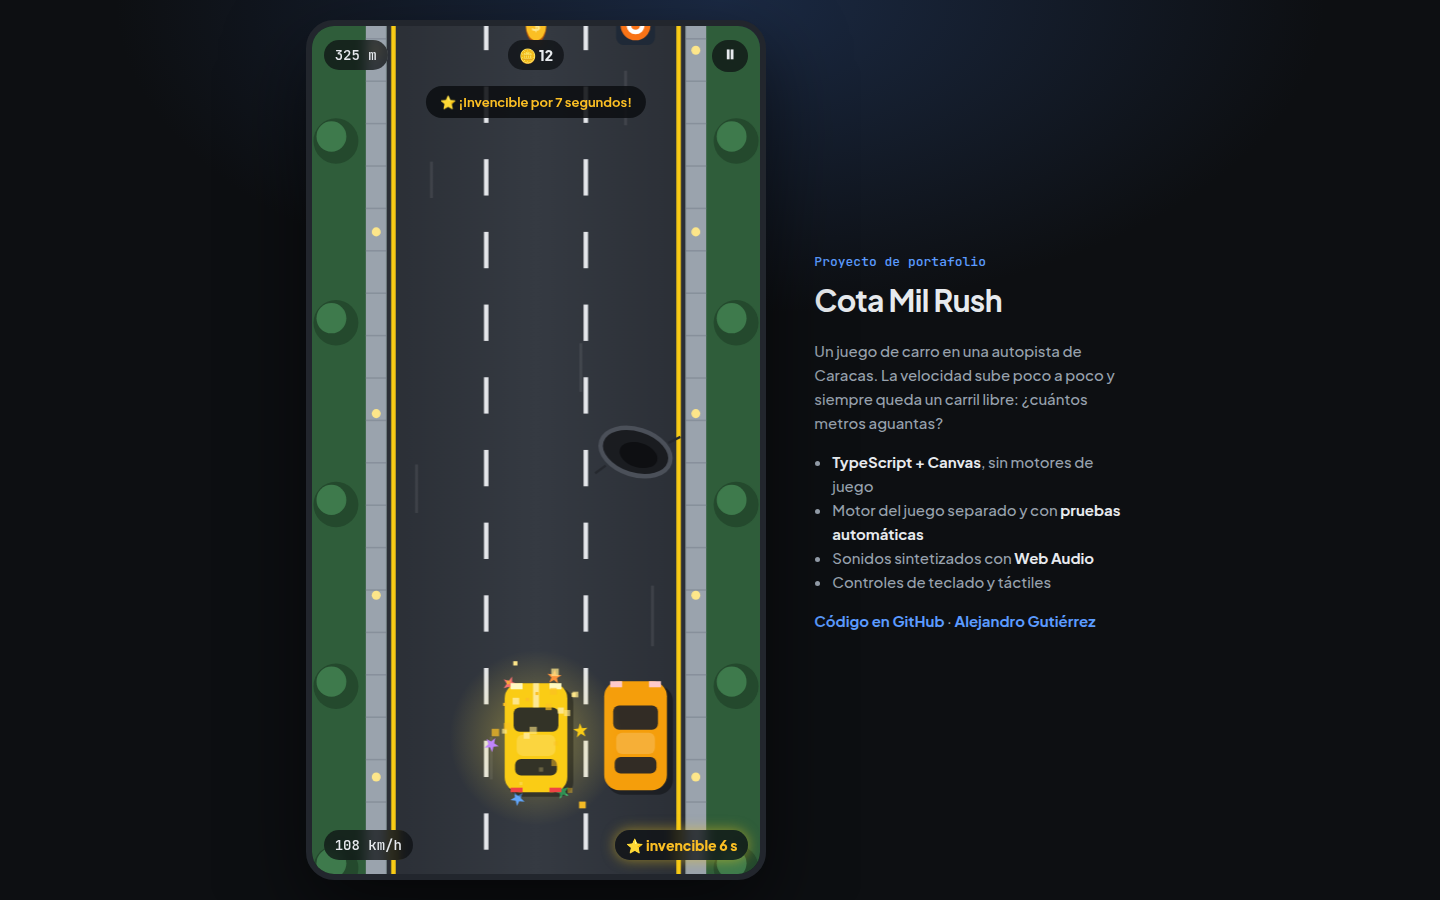
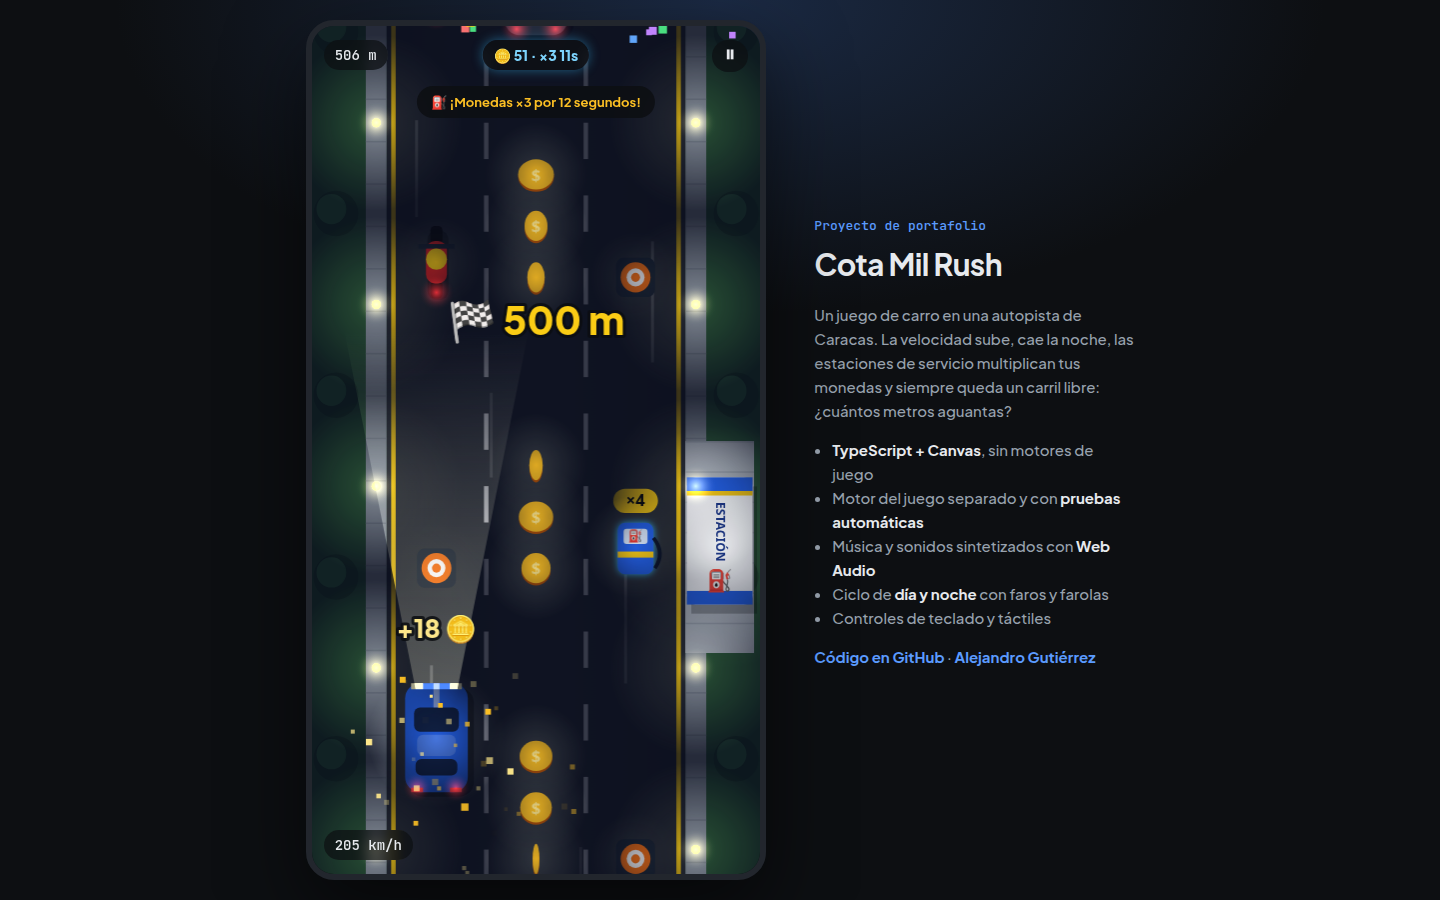
Capturas nuevas (noche y estación) y portadas del juego

Changed region(s): [[0.2188, 0.0311, 0.5312, 0.9956], [0.5625, 0.2489, 0.7812, 0.7467]]

diff --git a/promo/portada-movil.html b/promo/portada-movil.html
@@ -1,0 +1,133 @@
+<!doctype html>
+<html lang="es">
+<head>
+  <meta charset="utf-8">
+  <title>Portada vertical · Cota Mil Rush</title>
+  <link href="https://fonts.googleapis.com/css2?family=JetBrains+Mono:wght@500;700&family=Plus+Jakarta+Sans:wght@600;800&display=swap" rel="stylesheet">
+  <style>
+    html, body { margin: 0; background: #000; }
+    /* Vertical 9:16 (celular, historias, capturas de Play Store): 540 × 960, se exporta al doble */
+    .cover {
+      position: relative;
+      width: 540px;
+      height: 960px;
+      overflow: hidden;
+      font-family: "Plus Jakarta Sans", system-ui, sans-serif;
+      background: #0b0f17;
+      color: #fff;
+      text-align: center;
+    }
+    canvas { position: absolute; inset: 0; }
+    .shade-top {
+      position: absolute; left: 0; right: 0; top: 0; height: 470px;
+      background:
+        radial-gradient(80% 60% at 50% 10%, rgba(29,59,110,.95) 0%, transparent 70%),
+        linear-gradient(180deg, rgba(9,12,19,1) 0%, rgba(9,12,19,.96) 55%, rgba(9,12,19,0) 100%);
+    }
+    .shade-bottom {
+      position: absolute; left: 0; right: 0; bottom: 0; height: 200px;
+      background: linear-gradient(0deg, rgba(9,12,19,.95) 0%, rgba(9,12,19,0) 100%);
+    }
+    .text { position: absolute; left: 0; right: 0; top: 64px; padding: 0 36px; }
+    .eyebrow {
+      display: inline-flex; gap: 8px; align-items: center;
+      margin: 0 0 18px; padding: 7px 14px; border-radius: 999px;
+      background: rgba(91,155,255,.16); color: #9cc2ff;
+      font: 700 14px "JetBrains Mono", monospace; letter-spacing: .06em;
+    }
+    h1 { margin: 0; font-size: 96px; font-weight: 800; line-height: .9; letter-spacing: -.04em; }
+    h1 span {
+      display: block; width: max-content; margin: 0 auto;
+      background: linear-gradient(90deg, #5b9bff 0%, #82b3ff 50%, #facc15 100%);
+      -webkit-background-clip: text; background-clip: text; color: transparent;
+    }
+    .tag { margin: 20px 0 0; font-size: 21px; line-height: 1.35; color: #c9d1dc; font-weight: 600; }
+    .tag b { color: #facc15; }
+    .bottom { position: absolute; left: 0; right: 0; bottom: 56px; }
+    .cta {
+      display: inline-flex; align-items: center; gap: 10px;
+      padding: 16px 34px; border-radius: 16px;
+      background: #5b9bff; color: #0b0d10; font-weight: 800; font-size: 24px;
+      box-shadow: 0 12px 34px rgba(91,155,255,.45);
+    }
+    .url { margin: 14px 0 0; color: #98a2ae; font: 500 15px "JetBrains Mono", monospace; }
+  </style>
+</head>
+<body>
+  <div class="cover">
+    <canvas id="c"></canvas>
+    <div class="shade-top"></div>
+    <div class="shade-bottom"></div>
+    <div class="text">
+      <p class="eyebrow">🚗 AUTOPISTA DE CARACAS</p>
+      <h1>COTA MIL<span>RUSH</span></h1>
+      <p class="tag">Esquiva huecos y motorizados.<br>¡Agarra la <b>⭐ estrella</b> y vuélvete invencible!</p>
+    </div>
+    <div class="bottom">
+      <span class="cta">▶ Juega gratis</span>
+      <p class="url">alezzz18.github.io/cota-mil-rush</p>
+    </div>
+  </div>
+  <script type="module">
+    import * as s from "/src/render/sprites.ts";
+    const W = 540, H = 960;
+    const canvas = document.getElementById("c");
+    const dpr = window.devicePixelRatio || 1;
+    canvas.width = W * dpr; canvas.height = H * dpr;
+    canvas.style.width = W + "px"; canvas.style.height = H + "px";
+    const ctx = canvas.getContext("2d");
+    ctx.scale(dpr, dpr);
+
+    const ROAD = 200, L = ROAD / 3, lane = (i) => L * i + L / 2;
+    ctx.translate(W / 2, 600);
+    ctx.rotate(0.12);
+    ctx.scale(1.6, 1.6);
+    ctx.translate(-ROAD / 2, -250);
+
+    const top = -400, bottom = 900;
+    ctx.fillStyle = "#2f5d3a"; ctx.fillRect(-400, top, ROAD + 800, bottom - top);
+    ctx.fillStyle = "#9aa3ad"; ctx.fillRect(-14, top, 14, bottom - top); ctx.fillRect(ROAD, top, 14, bottom - top);
+    ctx.fillStyle = "#87909b";
+    for (let y = top; y < bottom; y += 28) { ctx.fillRect(-14, y, 14, 1); ctx.fillRect(ROAD, y, 14, 1); }
+    for (let y = top; y < bottom; y += 120) {
+      for (const x of [-36, ROAD + 36]) {
+        ctx.fillStyle = "#24492d"; ctx.beginPath(); ctx.arc(x, y + (x > 0 ? 40 : 0), 17, 0, Math.PI * 2); ctx.fill();
+        ctx.fillStyle = "#3e7a4c"; ctx.beginPath(); ctx.arc(x - 3, y - 3 + (x > 0 ? 40 : 0), 11, 0, Math.PI * 2); ctx.fill();
+      }
+      ctx.fillStyle = "#fde68a";
+      for (const x of [-7, ROAD + 7]) { ctx.beginPath(); ctx.arc(x, y + 60, 3, 0, Math.PI * 2); ctx.fill(); }
+    }
+    const g = ctx.createLinearGradient(0, 0, ROAD, 0);
+    g.addColorStop(0, "#2b2f36"); g.addColorStop(0.5, "#353a42"); g.addColorStop(1, "#2b2f36");
+    ctx.fillStyle = g; ctx.fillRect(0, top, ROAD, bottom - top);
+    ctx.fillStyle = "#facc15"; ctx.fillRect(3, top, 3, bottom - top); ctx.fillRect(ROAD - 6, top, 3, bottom - top);
+    ctx.fillStyle = "#e5e7eb";
+    for (const i of [1, 2]) for (let y = top; y < bottom; y += 48) ctx.fillRect(L * i - 1.5, y, 3, 24);
+
+    ctx.strokeStyle = "rgba(255,255,255,.16)"; ctx.lineWidth = 2;
+    for (const [x, y, l] of [[20, 150, 60], [180, 110, 70], [150, 260, 55], [40, 390, 45], [190, 470, 60]]) {
+      ctx.beginPath(); ctx.moveTo(x, y); ctx.lineTo(x, y + l); ctx.stroke();
+    }
+
+    // Tráfico y premios: entre el texto de arriba y el botón de abajo
+    for (const [y, spin] of [[105, 1], [140, 2.2], [175, 0.4]]) s.coin(ctx, lane(2), y, spin);
+    ctx.save(); ctx.translate(lane(0), 160); ctx.scale(1.5, 1.5); s.star(ctx, 0, 0, 0.2); ctx.restore();
+    s.car(ctx, lane(2), 250, "#f59e0b");
+    s.pothole(ctx, lane(0), 300);
+    s.moto(ctx, lane(0), 390);
+
+    const px = lane(1), py = 265;
+    s.starAura(ctx, px, py, 0.35, 7);
+    s.car(ctx, px, py, "#facc15", true);
+    const colors = ["#f97316", "#fbbf24", "#f472b6", "#60a5fa", "#4ade80", "#ffffff"];
+    let seed = 7; const rnd = () => ((seed = (seed * 16807) % 2147483647) / 2147483647);
+    for (let i = 0; i < 40; i++) {
+      const a = -Math.PI / 2 + (rnd() - 0.5) * 2.4, d = 10 + rnd() * 42, r = 1.4 + rnd() * 2.6;
+      ctx.fillStyle = colors[i % colors.length];
+      ctx.globalAlpha = 0.6 + rnd() * 0.4;
+      ctx.fillRect(px + Math.cos(a) * d - r, py - 42 + Math.sin(a) * d * 0.7 - r, r * 2, r * 2);
+    }
+    ctx.globalAlpha = 1;
+  </script>
+</body>
+</html>

diff --git a/promo/portada.html b/promo/portada.html
@@ -1,0 +1,125 @@
+<!doctype html>
+<html lang="es">
+<head>
+  <meta charset="utf-8">
+  <title>Portada · Cota Mil Rush</title>
+  <link href="https://fonts.googleapis.com/css2?family=JetBrains+Mono:wght@500;700&family=Plus+Jakarta+Sans:wght@600;800&display=swap" rel="stylesheet">
+  <style>
+    html, body { margin: 0; background: #000; }
+    /* Gráfico de funciones de Play Store: 1024 × 500 */
+    .cover {
+      position: relative;
+      width: 1024px;
+      height: 500px;
+      overflow: hidden;
+      font-family: "Plus Jakarta Sans", system-ui, sans-serif;
+      background: radial-gradient(70% 90% at 15% 20%, #1d3b6e 0%, transparent 60%), #0b0f17;
+    }
+    canvas { position: absolute; inset: 0; }
+    .shade {
+      position: absolute; inset: 0;
+      background: linear-gradient(90deg, rgba(9,12,19,.97) 0%, rgba(9,12,19,.9) 34%, rgba(9,12,19,.0) 56%);
+    }
+    .text { position: absolute; left: 56px; top: 50%; transform: translateY(-50%); width: 430px; color: #fff; }
+    .eyebrow {
+      display: inline-flex; gap: 8px; align-items: center;
+      margin: 0 0 14px; padding: 6px 12px; border-radius: 999px;
+      background: rgba(91,155,255,.16); color: #9cc2ff;
+      font: 700 13px "JetBrains Mono", monospace; letter-spacing: .06em;
+    }
+    h1 { margin: 0; font-size: 92px; font-weight: 800; line-height: .9; letter-spacing: -.04em; }
+    h1 span {
+      display: block;
+      background: linear-gradient(90deg, #5b9bff 0%, #82b3ff 50%, #facc15 100%);
+      width: max-content;
+      -webkit-background-clip: text; background-clip: text; color: transparent;
+    }
+    .tag { margin: 18px 0 22px; font-size: 20px; line-height: 1.35; color: #c9d1dc; font-weight: 600; }
+    .tag b { color: #facc15; }
+    .cta {
+      display: inline-flex; align-items: center; gap: 10px;
+      padding: 12px 22px; border-radius: 14px;
+      background: #5b9bff; color: #0b0d10; font-weight: 800; font-size: 18px;
+      box-shadow: 0 10px 30px rgba(91,155,255,.4);
+    }
+  </style>
+</head>
+<body>
+  <div class="cover" id="cover">
+    <canvas id="c" width="1024" height="500"></canvas>
+    <div class="shade"></div>
+    <div class="text">
+      <p class="eyebrow">🚗 AUTOPISTA DE CARACAS</p>
+      <h1>COTA MIL<span>RUSH</span></h1>
+      <p class="tag">Esquiva huecos y motorizados.<br>¡Agarra la <b>⭐ estrella</b> y vuélvete invencible!</p>
+      <span class="cta">▶ Juega gratis</span>
+    </div>
+  </div>
+  <script type="module">
+    import * as s from "/src/render/sprites.ts";
+    const canvas = document.getElementById("c");
+    const dpr = window.devicePixelRatio || 1;
+    canvas.width = 1024 * dpr; canvas.height = 500 * dpr;
+    canvas.style.width = "1024px"; canvas.style.height = "500px";
+    const ctx = canvas.getContext("2d");
+    ctx.scale(dpr, dpr);
+
+    // Escena en unidades del juego: vía de 3 carriles (ancho 200) muy larga
+    const ROAD = 200, L = ROAD / 3, lane = (i) => L * i + L / 2;
+    ctx.translate(745, 250);
+    ctx.rotate(0.2);
+    ctx.scale(1.3, 1.3);
+    ctx.translate(-ROAD / 2, -250);
+
+    const top = -400, bottom = 900;
+    ctx.fillStyle = "#2f5d3a"; ctx.fillRect(-400, top, ROAD + 800, bottom - top);
+    ctx.fillStyle = "#9aa3ad"; ctx.fillRect(-14, top, 14, bottom - top); ctx.fillRect(ROAD, top, 14, bottom - top);
+    ctx.fillStyle = "#87909b";
+    for (let y = top; y < bottom; y += 28) { ctx.fillRect(-14, y, 14, 1); ctx.fillRect(ROAD, y, 14, 1); }
+    for (let y = top; y < bottom; y += 120) {
+      for (const x of [-36, -90, ROAD + 36, ROAD + 90]) {
+        ctx.fillStyle = "#24492d"; ctx.beginPath(); ctx.arc(x, y + (x > 0 ? 40 : 0), 17, 0, Math.PI * 2); ctx.fill();
+        ctx.fillStyle = "#3e7a4c"; ctx.beginPath(); ctx.arc(x - 3, y - 3 + (x > 0 ? 40 : 0), 11, 0, Math.PI * 2); ctx.fill();
+      }
+      ctx.fillStyle = "#fde68a";
+      for (const x of [-7, ROAD + 7]) { ctx.beginPath(); ctx.arc(x, y + 60, 3, 0, Math.PI * 2); ctx.fill(); }
+    }
+    const g = ctx.createLinearGradient(0, 0, ROAD, 0);
+    g.addColorStop(0, "#2b2f36"); g.addColorStop(0.5, "#353a42"); g.addColorStop(1, "#2b2f36");
+    ctx.fillStyle = g; ctx.fillRect(0, top, ROAD, bottom - top);
+    ctx.fillStyle = "#facc15"; ctx.fillRect(3, top, 3, bottom - top); ctx.fillRect(ROAD - 6, top, 3, bottom - top);
+    ctx.fillStyle = "#e5e7eb";
+    for (const i of [1, 2]) for (let y = top; y < bottom; y += 48) ctx.fillRect(L * i - 1.5, y, 3, 24);
+
+    // Líneas de velocidad
+    ctx.strokeStyle = "rgba(255,255,255,.16)"; ctx.lineWidth = 2;
+    for (const [x, y, l] of [[20, 80, 60], [180, 30, 70], [95, -60, 50], [150, 210, 55], [40, 380, 45], [190, 470, 60], [120, 520, 40]]) {
+      ctx.beginPath(); ctx.moveTo(x, y); ctx.lineTo(x, y + l); ctx.stroke();
+    }
+
+    // Tráfico y premios
+    s.car(ctx, lane(0), 30, "#a855f7");
+    for (const [y, spin] of [[70, 1], [110, 2.2], [150, 0.4]]) s.coin(ctx, lane(2), y, spin);
+    ctx.save(); ctx.translate(lane(0), 170); ctx.scale(1.5, 1.5); s.star(ctx, 0, 0, 0.2); ctx.restore();
+    s.car(ctx, lane(2), 255, "#f59e0b");
+    s.pothole(ctx, lane(0), 300);
+    s.moto(ctx, lane(0), 440);
+    s.pothole(ctx, lane(2), 420);
+
+    // Carro invencible rompiendo un cono justo delante
+    const px = lane(1), py = 360;
+    s.starAura(ctx, px, py, 0.35, 7);
+    s.car(ctx, px, py, "#facc15", true);
+    const colors = ["#f97316", "#fbbf24", "#f472b6", "#60a5fa", "#4ade80", "#ffffff"];
+    let seed = 7; const rnd = () => ((seed = (seed * 16807) % 2147483647) / 2147483647);
+    for (let i = 0; i < 40; i++) {
+      const a = -Math.PI / 2 + (rnd() - 0.5) * 2.4, d = 10 + rnd() * 42, r = 1.4 + rnd() * 2.6;
+      ctx.fillStyle = colors[i % colors.length];
+      ctx.globalAlpha = 0.6 + rnd() * 0.4;
+      ctx.fillRect(px + Math.cos(a) * d - r, py - 42 + Math.sin(a) * d * 0.7 - r, r * 2, r * 2);
+    }
+    ctx.globalAlpha = 1;
+    document.fonts.ready.then(() => document.body.dataset.ready = "1");
+  </script>
+</body>
+</html>

diff --git a/README.md b/README.md
@@ -6,9 +6,11 @@ Juego de carro en una autopista de Caracas: esquiva **huecos, motorizados, conos
 
 🎮 **Jugar:** https://alezzz18.github.io/cota-mil-rush/
 
-| Menú | Partida | Fin de partida |
-|---|---|---|
-| ![Menú](docs/menu.png) | ![Partida](docs/partida.png) | ![Fin de partida](docs/fin.png) |
+| Menú | De día: estación de servicio | De noche: faros y combo | Fin de partida |
+|---|---|---|---|
+| ![Menú](docs/menu.png) | ![Estación de servicio](docs/estacion.png) | ![Partida de noche](docs/partida.png) | ![Fin de partida](docs/fin.png) |
+
+<p align="center"><img src="promo/portada-1024x500.png" alt="Portada de Cota Mil Rush" width="640"></p>
 
 ## 🕹 Cómo se juega
 
@@ -33,7 +35,7 @@ Juego de carro en una autopista de Caracas: esquiva **huecos, motorizados, conos
 - **Motor del juego separado** ([`src/game/engine.ts`](src/game/engine.ts)): estado y reglas sin DOM ni dibujo, con aleatoriedad reproducible por semilla.
 - **Nunca es imposible:** cada fila deja un carril libre al que se puede llegar desde *cualquier* carril libre de la fila anterior, y los vehículos lentos no bloquean el paso.
 - **18 pruebas (Vitest)**, incluida una en la que un conductor automático juega **40 partidas de 2 minutos** sin chocar: si él puede, una persona también.
-- **Música de fondo original generada en vivo** con Web Audio: un secuenciador de batería, bajo, arpegio y melodía. Acelera con el carro, sube de tono con la estrella y se oscurece de noche.
+- **Música de fondo original, "Cota Mil Nights"**, estilo synthwave y generada en vivo con Web Audio: batería ochentera, bajo de sierra, acordes que respiran con el bombo (*sidechain*), arpegio con eco, melodía con vibrato y reverberación. Acelera con el carro, sube de tono con la estrella y se oscurece de noche.
 - **Noche con luces reales:** una capa de oscuridad a la que se le "recortan" los faros y las farolas (`destination-out`), más brillos aditivos encima.
 - **Sonidos sintetizados** (monedas, estrella, estación, por un pelo, choque, récord), vibración en el celular, partículas, sacudida al chocar y pausa automática al cambiar de pestaña.
 - Bucle a 60 fps con `requestAnimationFrame` y paso de tiempo limitado.
@@ -45,10 +47,14 @@ src/
 ├── render/sprites.ts     carro, motos, huecos, conos, monedas, estrellas y estaciones dibujados con Canvas
 ├── render/renderer.ts    vía, noche y luces, efectos, textos y partículas
 ├── audio.ts              efectos con Web Audio
-├── music.ts              música de fondo (secuenciador)
+├── music.ts              música de fondo synthwave (secuenciador + efectos)
 ├── storage.ts            récord y preferencias
 └── main.ts               bucle, controles, pantallas y compartir
 ```
+
+## 🖼 Portadas
+
+En [`promo/`](promo/) están las portadas (Play Store 1024×500, banner 2048×1000 y vertical 1080×1920 para el celular), dibujadas con los mismos sprites del juego: `npm run dev` y abrir `/promo/portada.html` o `/promo/portada-movil.html`.
 
 ## 🚀 Ejecutar en local
 
